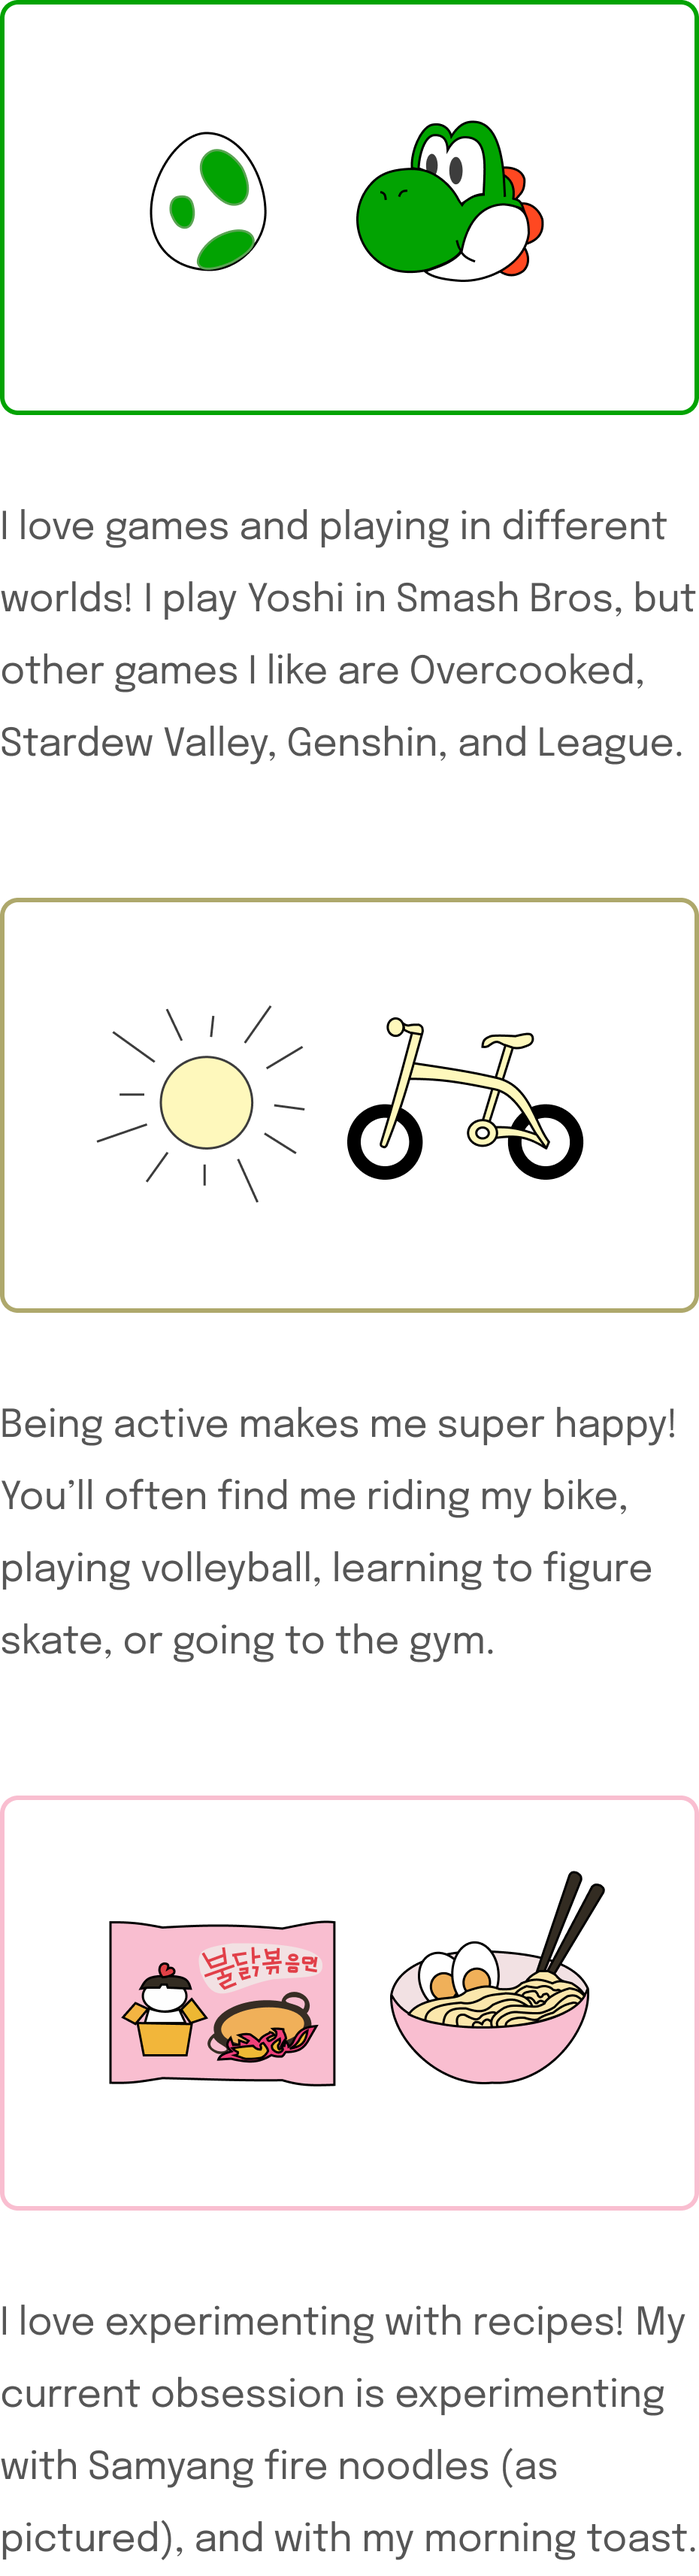
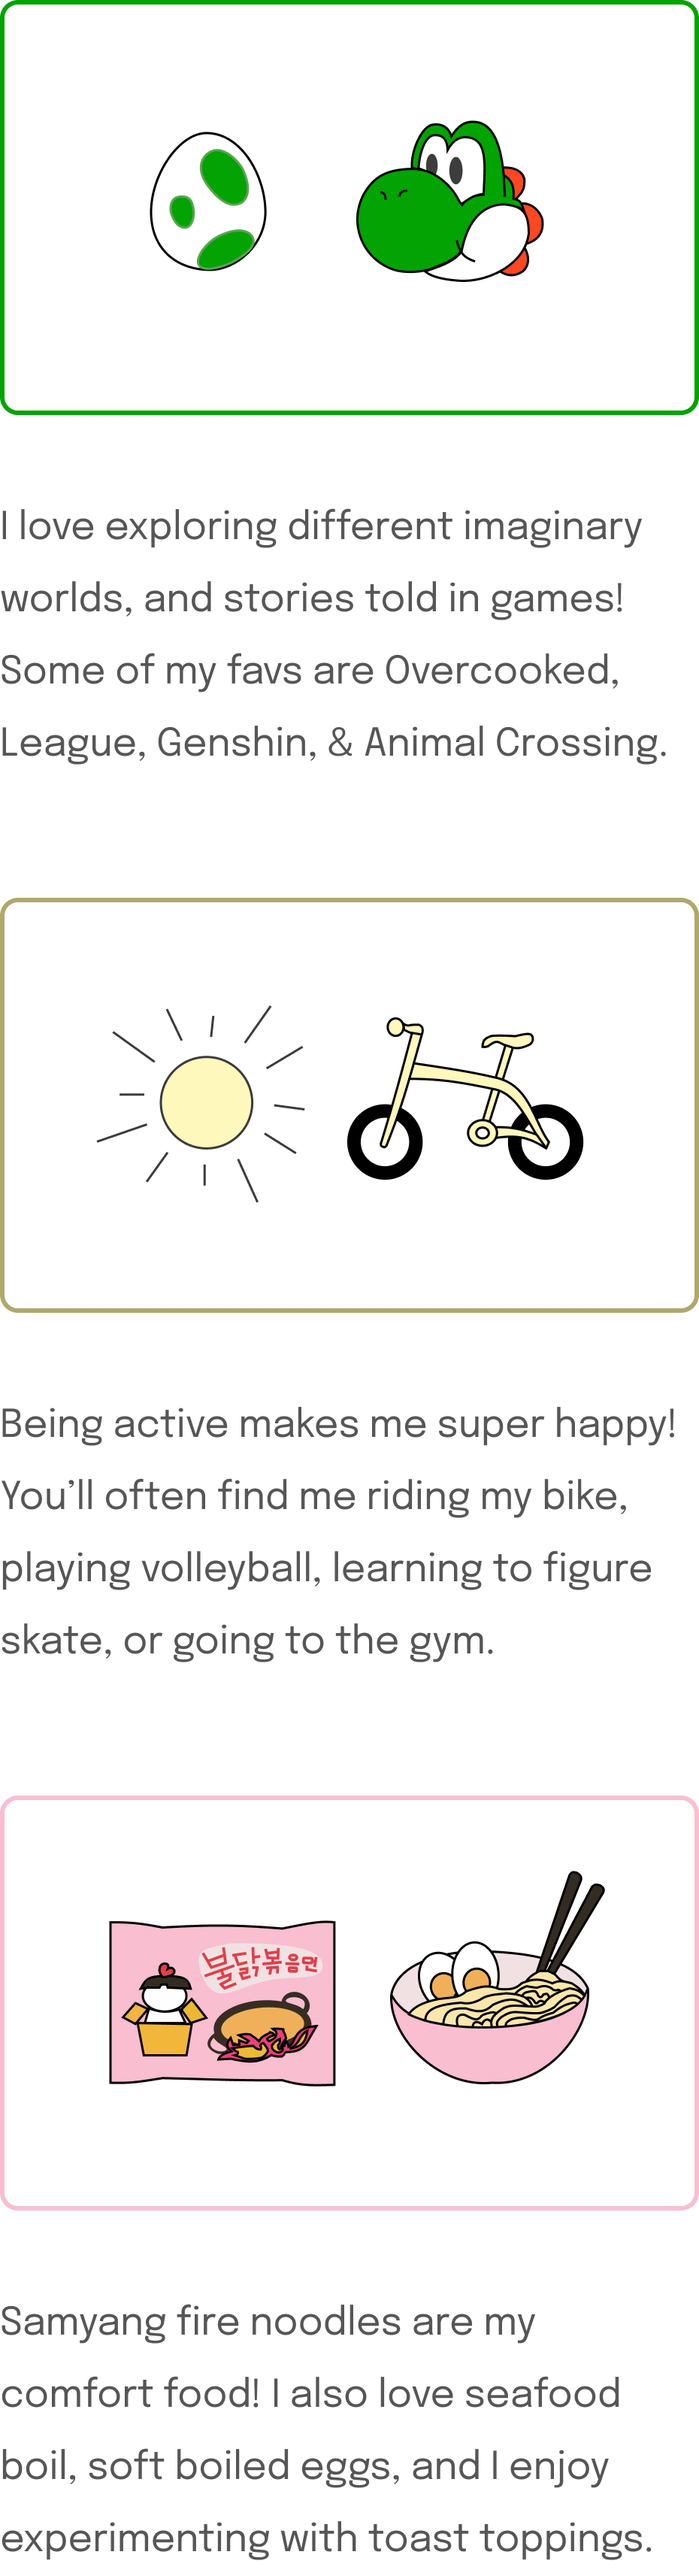
updated hero

Changed region(s): [[0.0, 0.8745, 0.9667, 0.9994], [0.0, 0.1874, 0.9667, 0.3123], [0.9667, 0.2186, 0.9978, 0.2499]]

diff --git a/index.html b/index.html
@@ -44,17 +44,50 @@
             </ul>
         </nav>
 
-        <div class="left-right-padding-small" style="padding-top: 0rem; padding-bottom: 3rem;">
+        <div class="left-right-padding-small" style="padding-top: 0rem; padding-bottom: 2.5rem;">
             <div>
                 <div class="hero">
                     <div style="max-width: 100%; text-align: center; margin-left: auto; margin-right: auto;">
                         <p data-aos="fade-up" data-aos-once="true" data-aos-delay="0" data-aos-duration="1000" data-aos-easing="ease-in-out" data-aos-mirror="false">Welcome ◡̈</p>
                         <!-- <h1 style="margin-top: 0.85rem; margin-bottom: 1.25rem;">I'm Stacy! A product designer who approaches design challenges with empathy and <span class="title-word title-word-1">humility</span>, and thrives on teams with <span class="title-word title-word-2">drive</span> and <span class="title-word title-word-3">community</span></h1> -->
-                        <h1 style="margin-top: 1.75rem; margin-bottom: 1.25rem;" data-aos="fade-up" data-aos-once="true" data-aos-delay="1000" data-aos-duration="1000" data-aos-easing="ease-in-out" data-aos-mirror="false">Hi, I'm Stacy Kwok!</h1>
+                        <h1 style="max-width: fit-content; margin-top: 1.75rem; margin-bottom: 1.25rem; margin-left: auto; margin-right: auto;" data-aos="fade-up" data-aos-once="true" data-aos-delay="1000" data-aos-duration="1000" data-aos-easing="ease-in-out" data-aos-mirror="false"><span id="span1">Hi, I'm Stacy Kwok!</span></h1>
                         <p id="header-body" style="max-width: 55%; margin-left: auto; margin-right: auto;" data-aos="fade-up" data-aos-once="true" data-aos-delay="2000" data-aos-duration="1000" data-aos-easing="ease-in-out" data-aos-mirror="false">I'm a product designer who seeks to understand, and who thrives amongst <span class="title-word title-word-1">ambition</span>, <span class="title-word title-word-2">humility</span>, and <span class="title-word title-word-3">community</span></p>
                         <!-- <p style="max-width: 95%;">Recently designed for magical worlds <a href="https://www.jamcity.com/" target="_blank">@Jam City</a>, and for investing <a href="https://www.questrade.com/home" target="_blank">@Questrade</a>.</p> -->
                         <!-- <a href="https://www.questrade.com/" target="_blank">@Questrade</a>, <a href="https://www.lcbonext.com/" target="_blank">@LCBO|next</a>, and for non-profits <a href="https://uwblueprint.org/" target="_blank">@UW Blueprint</a> -->
-                        <img src="assets-index/header.svg" id="header-img" style="max-width:120%;height:auto;padding-top: 1.8rem; padding-bottom: 1.5rem; padding-left: 1.5rem;" data-aos="fade-up" data-aos-once="true" data-aos-delay="2000" data-aos-duration="1000" data-aos-easing="ease-in-out" data-aos-mirror="false">
+
+                        <div id="cards" style="max-width:54%;padding-top: 1.8rem; display: flex; flex-direction: row; align-items: center; justify-content: space-between; margin-left: auto; margin-right: auto;" data-aos="fade-up" data-aos-once="true" data-aos-delay="2000" data-aos-duration="1000" data-aos-easing="ease-in-out" data-aos-mirror="false">
+                            <div class="flip-card">
+                                <div class="flip-card-inner">
+                                    <div class="flip-card-front">
+                                        <img src="assets-index-2/yoshi-header.png" style="max-width:40%;height:auto;">
+                                    </div>
+                                    <div class="flip-card-back">
+                                        <p style="max-width:80%;">I’m always Yoshi when I play Super Smash Bros 🎮</p>
+                                    </div>
+                                </div>
+                            </div>
+                            <div class="flip-card">
+                                <div class="flip-card-inner">
+                                    <div class="flip-card-front">
+                                        <img src="assets-index-2/sun-header.png" style="max-width:70%;height:auto;">
+                                    </div>
+                                    <div class="flip-card-back">
+                                        <p style="max-width:80%;">I’ve been nicknamed the “sunshine” of design teams 🙂</p>
+                                    </div>
+                                </div>
+                            </div>
+                            <div class="flip-card">
+                                <div class="flip-card-inner">
+                                    <div class="flip-card-front">
+                                        <img src="assets-index-2/samyang-header.png" style="max-width:65%;height:auto;">
+                                    </div>
+                                    <div class="flip-card-back">
+                                        <p style="max-width:80%;">I eat ALOT of Korean fire (super spicy!) noodles 🔥</p>
+                                    </div>
+                                </div>
+                            </div>
+                        </div>
+                        <!-- <img src="assets-index/header.svg" id="header-img" style="max-width:120%;height:auto;padding-top: 1.8rem; padding-bottom: 1.5rem; padding-left: 1.5rem;" data-aos="fade-up" data-aos-once="true" data-aos-delay="2000" data-aos-duration="1000" data-aos-easing="ease-in-out" data-aos-mirror="false"> -->
                     </div>
                     <!-- <img src="assets-index/sun.svg" style="max-width:120%;height:auto;padding-top: 1rem; padding-bottom: 0.75rem;"> -->
                 </div>
@@ -80,13 +113,13 @@
 
         <div class="left-right-padding-small">
             <div class="hero" id="work" style="padding-right: 3rem;justify-content: center;">
-                <p class="line-behind" style="width: 100%;" data-aos="fade-up" data-aos-once="true" data-aos-delay="1000" data-aos-duration="500" data-aos-easing="ease-in-out" data-aos-mirror="false"><span style="background-color: #F8F6F4; padding: 0 15px; text-align: center;">Featured projects</span></p>
+                <p class="line-behind" style="width: 100%;" data-aos="fade-up" data-aos-once="true" data-aos-delay="3000" data-aos-duration="800" data-aos-easing="ease-in-out" data-aos-mirror="false"><span style="background-color: #F8F6F4; padding: 0 15px; text-align: center;">Featured projects</span></p>
                 <!-- <h4>My recent work ↓</h4> -->
                 <!-- <span class="material-icons" style="font-size: 20px; padding-left: 0.4rem; padding-top: 0.2rem;">arrow_downward</span>  -->
             </div>
         </div>
 
-        <div class="left-right-padding-small" style="padding-top: 1.25rem;">
+        <div class="left-right-padding-small" style="padding-top: 0.25rem;">
             <!-- JAMCITY CASE STUDY -->
             <!-- <div class="project-2-col" data-aos="fade-up" data-aos-once="false" data-aos-delay="50" data-aos-duration="700" data-aos-easing="ease-in-out" data-aos-mirror="false">
                 <div class="project-2-col-text">
@@ -121,7 +154,7 @@
                 </div>
             </div> -->
 
-            <div class="project-1-col" data-aos="fade-up" data-aos-once="true" data-aos-delay="500" data-aos-duration="500" data-aos-easing="ease-in-out" data-aos-mirror="false">
+            <div class="project-1-col" data-aos="fade-up" data-aos-once="true" data-aos-delay="0" data-aos-duration="500" data-aos-easing="ease-in-out" data-aos-mirror="false">
                 <a href="jamcity.html" id="no-decor">
                 <!-- <a onclick="PassWord()" id="no-decor"> -->
                     <div class="glow-gold">

diff --git a/main.css b/main.css
@@ -293,7 +293,8 @@ footer > ul {
 }
 
 .title-word {
-    animation: color-animation 6s linear infinite;
+    animation: color-animation 14s linear infinite;
+    animation-delay: 12s;
     /* font-weight: 700; font-size: 40px; line-height: 56px; letter-spacing: 0.01em; color: #3C3C3C; */
     font-weight: 700;
     padding-top: 0.5rem;
@@ -534,6 +535,117 @@ body {
 #values-small, #fun-small, #notice {
     display: none;
 }
+/* The flip card container - set the width and height to whatever you want. We have added the border property to demonstrate that the flip itself goes out of the box on hover (remove perspective if you don't want the 3D effect */
+.flip-card {
+    background-color: transparent;
+    width: 8rem;
+    height: 8rem;
+    border: 1px solid #f1f1f1;
+    perspective: 1000px; /* Remove this if you don't want the 3D effect */
+    border-radius: 12px;
+}
+
+/* This container is needed to position the front and back side */
+.flip-card-inner {
+    position: relative;
+    width: 100%;
+    height: 100%;
+    text-align: center;
+    transition: transform 0.8s;
+    transform-style: preserve-3d;
+}
+
+/* Do an horizontal flip when you move the mouse over the flip box container */
+.flip-card:hover .flip-card-inner {
+    transform: rotateY(180deg);
+}
+
+/* Position the front and back side */
+.flip-card-front, .flip-card-back {
+    position: absolute;
+    width: 100%;
+    height: 100%;
+    -webkit-backface-visibility: hidden; /* Safari */
+    backface-visibility: hidden;
+}
+
+/* Style the front side (fallback if image is missing) */
+.flip-card-front {
+    display: flex;
+    align-items: center;
+    justify-content: center;
+    box-shadow: rgba(0, 0, 0, 0.05) 0px 4px 12px;
+}
+
+/* Style the back side */
+.flip-card-back {
+    display: flex;
+    align-items: center;
+    justify-content: center;
+    box-shadow: rgba(0, 0, 0, 0.05) 0px 4px 12px;
+    font-size: 13px;
+    line-height: 28px;
+    text-align: left;
+    transform: rotateY(180deg);
+    background-color: #FCFAF8;
+}
+
+/* Blue bar title sequence */
+#span1{
+    position: relative;
+    overflow: hidden;
+    display: block;
+    line-height: 1.4;
+    padding-left: 1rem;
+    padding-right: 1rem;
+  }
+  
+  #span1::after{
+    content: '';
+    position: absolute;
+    top: 0;
+    right: 0;
+    width: 100%;
+    height: 100%;
+    background: #F9EE8B;
+    /* background: linear-gradient(to right, #84D86D, #F9EE8B, #F0C0D0); */
+    animation: a-ltr-after 2s cubic-bezier(.77,0,.18,1) forwards;
+    transform: translateX(-101%);
+  }
+  
+  #span1::before{
+    content: '';
+    position: absolute;
+    top: 0;
+    right: 0;
+    width: 100%;
+    height: 100%;
+    background: var(--bg-color);
+    animation: a-ltr-before 2s cubic-bezier(.77,0,.18,1) forwards;
+    transform: translateX(0);
+  }
+  
+  #span1:nth-of-type(1)::before,
+  #span1:nth-of-type(1)::after{
+    animation-delay: 1s;
+  }
+  
+  #span1:nth-of-type(2)::before,
+  #span1:nth-of-type(2)::after{
+    animation-delay: 1.5s;
+  }
+  
+  @keyframes a-ltr-after{
+    0% {transform: translateX(-100%)}
+    100% {transform: translateX(101%)}
+  }
+  
+  @keyframes a-ltr-before{
+    0% {transform: translateX(0)}
+    100% {transform: translateX(200%)}
+  }
+
+
 
 
 /* ME PAGE */
@@ -1183,7 +1295,7 @@ tr:first-child {
     }
     .hero, .project-1-col, .project-2-col, .case-study-content {
         padding-left: 2rem !important;
-        padding-right: 2.35rem !important;
+        padding-right: 2rem !important;
     }
     #values-big, #fun-big {
         max-width: 88% !important;
@@ -1234,6 +1346,13 @@ tr:first-child {
         height: 95vh;
     }
 }
+
+@media (max-width: 870px) {
+    #cards {
+        max-width: 465px !important;
+    }
+}
+
 /* 320 to 599 */
 @media (max-width: 599px) {
     body, #no-decor {
@@ -1241,6 +1360,11 @@ tr:first-child {
         margin-left: auto;
         margin-right: auto;
         font-size: 14px;
+    }
+    #cards {
+        flex-direction: column !important;
+        row-gap: 1rem;
+        /* max-width:85% !important; */
     }
     .sidebar {
         min-width: 30% !important;

diff --git a/jamcity.html b/jamcity.html
@@ -111,7 +111,7 @@
                     <ul style="margin-top: 1rem; margin-bottom: 2rem;">
                         <li>At Jam City, I was a UI/UX design intern on the team for the game HPHM! I interned during a critical time for the team--the existing game narrative ended once the player graduated Hogwarts, but the team was now working on game expansion content (what happens post-Hogwarts)</li>
                         <li>I was entrusted with designing the critical feature of enabling Hogwarts students that have graduated, to be able to work towards a career!</li>
-                        <li>I definately felt a littleee bit of pressure to do the feature justice for the devoted fanbase, but regardless I had alot of fun with the feature 🙂</li>
+                        <li>I definitely felt a littleee bit of pressure to do the feature justice for the devoted fanbase, but regardless I had alot of fun with the feature 🙂</li>
                     </ul>
 
                     <h2 id="problem" class="section" style="font-size: 30px; margin-top: 5rem; line-height: 46px;">Identifying the user, product, and design problem</h2>

diff --git a/me.html b/me.html
@@ -119,7 +119,7 @@
                 <h2>Say hi in an <a href="mailto:@s6kwok@uwaterloo.ca">email</a></h2>
                 <h2>Connect on <a href="https://www.linkedin.com/in/stacykwok-01/" target="_blank">Linkedin</a></h2>
                 <img src="assets-index/sun-footer.svg" style="max-width:80%;height:auto;padding-top: 0.75rem; padding-bottom: 0.6rem;">
-                <p>(Portfolio designed + coded with lots of 🎶 and 💗)</p>
+                <p>Portfolio designed and ✨ coded ✨ with lots of 🎶 and 💗</p>
             </footer>
         </div>
         <script src="https://unpkg.com/aos@next/dist/aos.js"></script>
